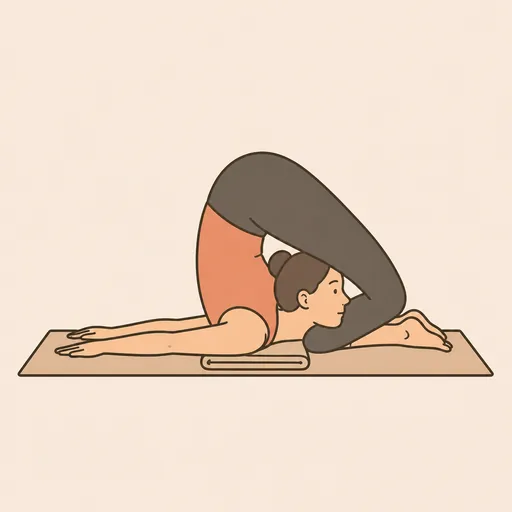
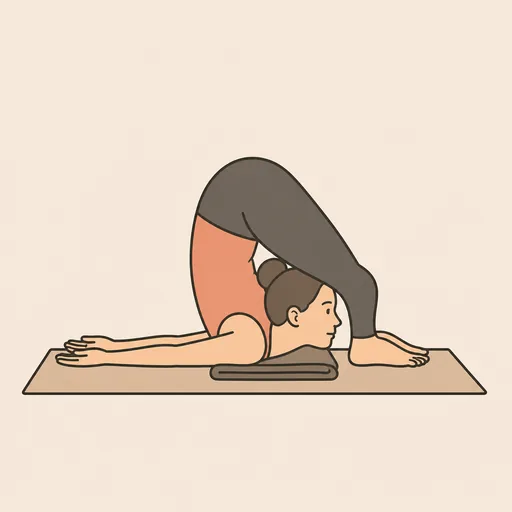
Bild Knie zu den Ohren neu eingebunden, Beschreibung zur Kopfhaltung ergänzt

Changed region(s): [[0.0312, 0.2812, 0.9688, 0.7812]]

diff --git a/docs/GRAFIKLISTE.md b/docs/GRAFIKLISTE.md
@@ -303,7 +303,7 @@ Ergänzt am 2026-10-14 nach einem Abgleich mit dem Buch: die Haltungen, die es f
 | G-207 | `yoga_64_stock` | Stock (Dandasana) | Seite | 1 | Aufrechter Sitz am Boden, beide Beine gestreckt und geschlossen nach vorn, die Fersen schieben weg, die Zehen zeigen nach oben. Die Hände liegen flach neben der Hüfte, Arme gestreckt, Rücken senkrecht, Blick geradeaus. |
 | G-208 | `yoga_65_liegende_hand_zum_zeh` | Liegende Hand zum Zeh (Supta Padangusthasana) | Seite | 1 | Rückenlage, ein Bein gestreckt am Boden, das andere gestreckt senkrecht nach oben gehoben. Die Hand derselben Seite hält den großen Zeh des gehobenen Beins mit Zeige- und Mittelfinger, die andere Hand liegt auf dem Oberschenkel des unteren Beins. Kopf am Boden. |
 | G-209 | `yoga_66_liegender_heldensitz` | Liegender Heldensitz (Supta Virasana) | Seite | 1 | Aus dem Heldensitz nach hinten gelegt: das Gesäß zwischen den Füßen am Boden, Unterschenkel flach neben den Oberschenkeln, die Knie geschlossen am Boden. Der Rücken liegt flach auf der Matte, die Arme sind über dem Kopf ausgestreckt. |
-| G-210 | `yoga_67_ohrendruck` | Knie zu den Ohren (Karnapidasana) | Seite | 1 | Die Figur ist eingerollt wie ein Ball: Schultern auf einer flach gefalteten Decke, Becken hoch über den Schultern, die Beine STARK GEBEUGT. Die Oberschenkel liegen nah am Gesicht, die KNIE liegen links und rechts DIREKT NEBEN DEN OHREN auf der Matte, die Schienbeine und Fußrücken liegen flach auf der Matte hinter dem Kopf, die Zehen zeigen vom Kopf weg. Die Knie zeigen also nach unten zur Matte, nicht zur Decke. Arme gestreckt hinter dem Rücken. |
+| G-210 | `yoga_67_ohrendruck` | Knie zu den Ohren (Karnapidasana) | Seite | 1 | Die Figur ist eingerollt wie ein Ball: Schultern auf einer flach gefalteten Decke, Becken hoch über den Schultern, die Beine STARK GEBEUGT. Die Oberschenkel liegen nah am Gesicht, die KNIE liegen links und rechts DIREKT NEBEN DEN OHREN auf der Matte, die Schienbeine und Fußrücken liegen flach auf der Matte hinter dem Kopf, die Zehen zeigen vom Kopf weg. Die Knie zeigen also nach unten zur Matte, nicht zur Decke. Der Kopf liegt gerade auf der Matte, das Gesicht zeigt zur Brust und ist NICHT zur Seite gedreht. Arme gestreckt hinter dem Rücken. |
 | G-211 | `yoga_68_schulterstand_ein_bein` | Schulterstand mit einem Bein (Eka Pada Sarvangasana) | Seite | 1 | Schulterstand auf einer flach gefalteten Decke, Rumpf senkrecht, die Hände stützen den Rücken. Ein Bein bleibt gestreckt senkrecht nach oben. Das andere ist gestreckt über den Kopf gesenkt, seine Zehen berühren hinter dem Kopf die Matte. FUSS des gesenkten Beins: die Zehen zeigen vom Kopf WEG, die Ferse zeigt nach oben; der Fuß ist nicht zum Kopf hin zurückgeknickt. |
 | G-212 | `yoga_69_kuhgesicht` | Kuhgesicht (Gomukhasana) | Front | 1 | Aufrechter Sitz am Boden, die Knie liegen genau übereinander, die Füße zeigen links und rechts neben der Hüfte nach hinten. Ein Arm greift von oben über die Schulter, der andere von unten hinter den Rücken, die Finger beider Hände haken zwischen den Schulterblättern ineinander. |
 

diff --git a/CHANGELOG.md b/CHANGELOG.md
@@ -8,7 +8,7 @@ Einträge verweisen, wo möglich, auf die Nummer im [Ideenspeicher](docs/IDEENSP
 
 ### Geändert
 - Zehn Übungsbilder neu erzeugt und eingebunden. Richtig sind jetzt: Schultertippen im Stütz, umgekehrte Planke, Pflug, gedrehter Stuhl, Welpe, Stütz halten, Schulterstand mit einem Bein; Tuck Front Lever ist besser, aber noch nicht waagerecht.
-- Gedrehtes Dreieck in einem weiteren Anlauf neu erzeugt, jetzt mit Blick auf den Rücken der gedrehten Figur. Knie zu den Ohren und zunächst auch das gedrehte Dreieck stimmten weiterhin nicht. Ihre Beschreibung in der Grafikliste ist noch einmal neu gefasst, mit Blick von schräg hinten und ausdrücklicher Angabe der linken und rechten Hand beziehungsweise der Knie neben den Ohren.
+- Gedrehtes Dreieck in einem weiteren Anlauf neu erzeugt, jetzt mit Blick auf den Rücken der gedrehten Figur. Knie zu den Ohren ebenfalls neu: Die Beine liegen jetzt eingerollt neben dem Kopf; der Kopf ist darin aber noch zur Seite gedreht, die Beschreibung ist dafür ergänzt. Ihre Beschreibung in der Grafikliste ist noch einmal neu gefasst, mit Blick von schräg hinten und ausdrücklicher Angabe der linken und rechten Hand beziehungsweise der Knie neben den Ohren.
 
 ## [0.14.0] – 2026-10-14
 
